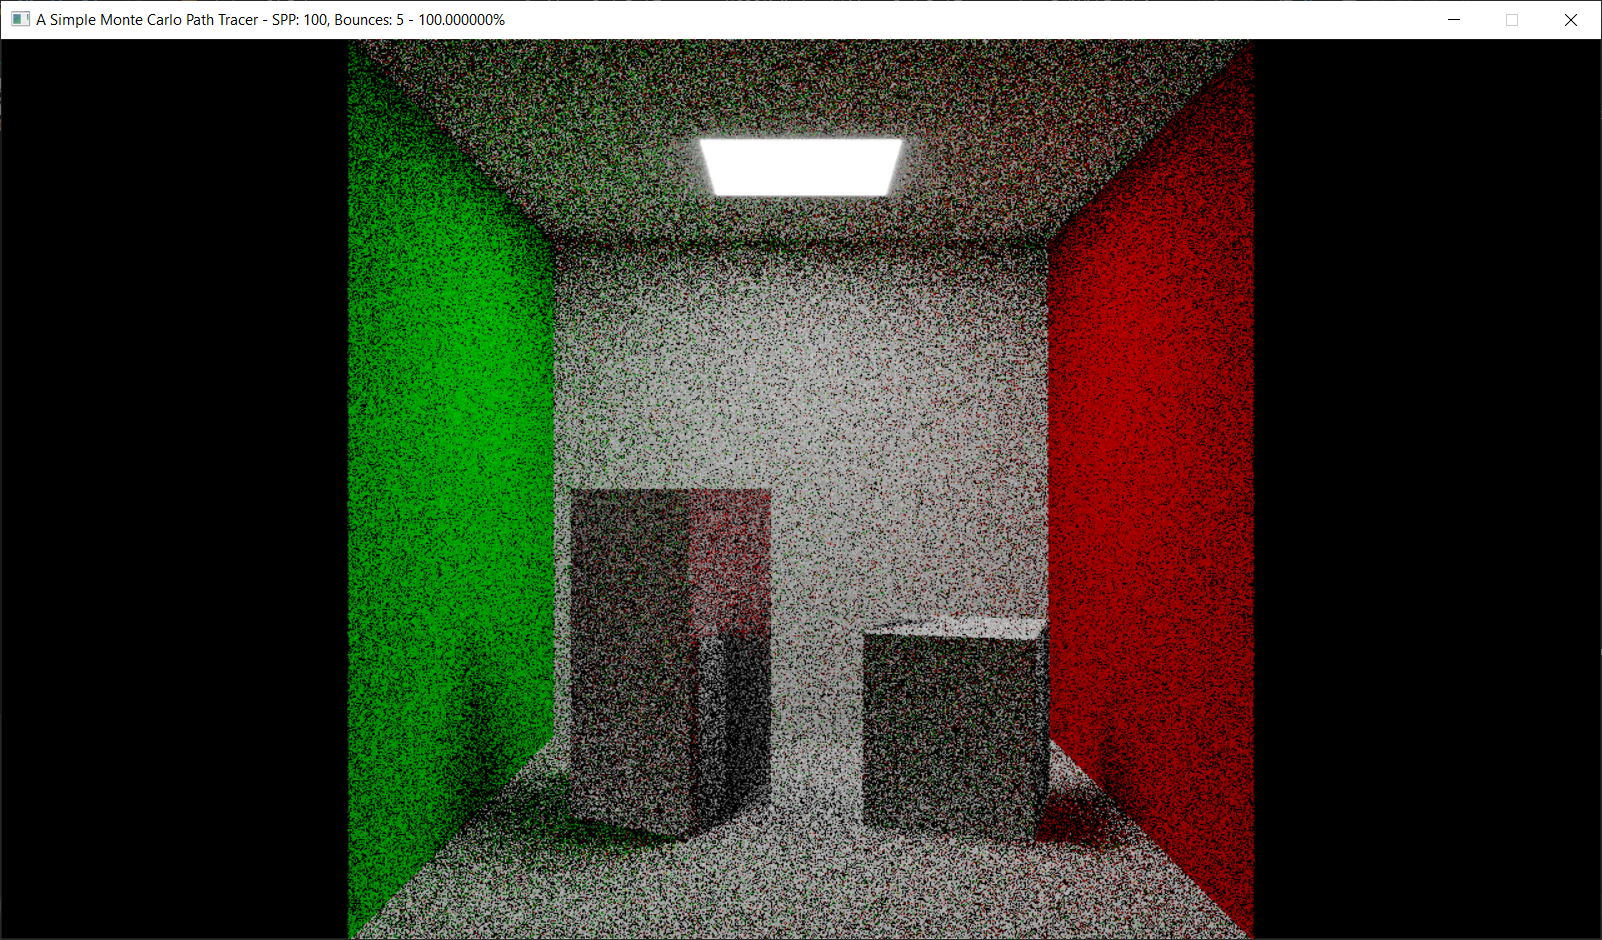
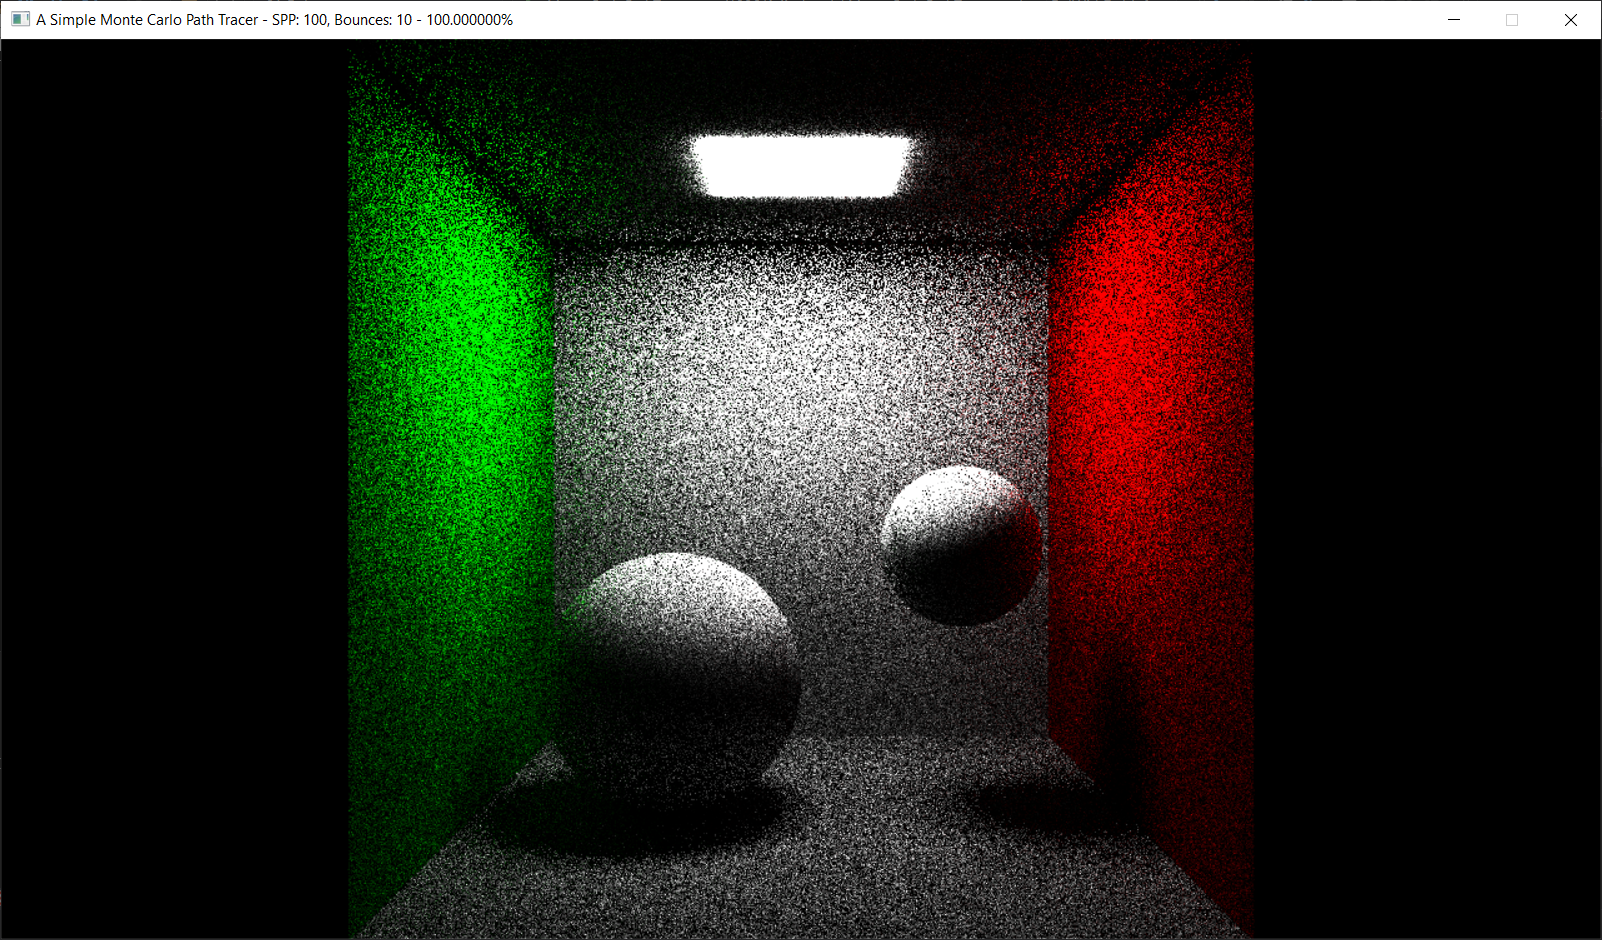
screen shot update

diff --git a/common/scene/CornellBox.cpp b/common/scene/CornellBox.cpp
@@ -37,25 +37,28 @@ void CornellBox::init() {
       .setEdges(glm::vec3(0, H, 0), glm::vec3(W, 0, 0))
       .setAnchor(glm::vec3(W / -2, 0, D / 2));
 
-  auto& tallBox = createObject<Box>("tall_box");
+  /*auto& tallBox = createObject<Box>("tall_box");
   tallBox.setExtents(W / 4.5f, H / 2, D / 4.5f)
       .setPosition(glm::vec3(-W / 5, 0, 0))
-      .setRotation(0, glm::radians(30.0f), 0);
-  tallBox.init();
+      .setRotation(0, glm::radians(-30.0f), 0);
+  tallBox.init();*/
 
   glm::vec3 boxPos = glm::vec3(W / 4, 0, 0);
   glm::vec3 boxSize = glm::vec3(W / 4, H / 3.5f, D / 4);
-  auto& shotBox = createObject<Box>("short_box");
+  /*auto& shotBox = createObject<Box>("short_box");
   shotBox.setExtents(boxSize.x, boxSize.y, boxSize.z)
       .setPosition(boxPos)
-      .setRotation(0, glm::radians(-18.0f), 0);
-  shotBox.init();
+      .setRotation(0, glm::radians(30.0f), 0);
+  shotBox.init();*/
 
 #if 1
-  float ball = W / 4.5f / 2.25f;
-  createObject<Sphere>("ball")
+  float ball = W / 8;
+  createObject<Sphere>("small_ball")
       .setCenter(boxPos + glm::vec3(0, ball + boxSize.y, 0))
       .setRadius(ball);
+  createObject<Sphere>("big_ball")
+      .setCenter(glm::vec3(-1,1,0))
+      .setRadius(1);
 #endif
 }
 

diff --git a/1986.Kajiya/code/MonteCarloPathTracer.cpp b/1986.Kajiya/code/MonteCarloPathTracer.cpp
@@ -118,8 +118,9 @@ glm::vec3 MonteCarloPathTracer::_shade(const Ray& wo,
   glm::vec3 wi = pMtl->scatter(shadingPoint.normal);
   float pdf = pMtl->pdf(wi, shadingPoint.normal);
   float cosine = std::max(0.0f, glm::dot(wi, shadingPoint.normal));
+  float fr = pMtl->evaluate(wo.direction, wi, shadingPoint.normal);
 
-  if (pdf == 0.0f) return bgColor;
+  if (pdf == 0.0f || fr <= 0.0f) return bgColor;
 
   Ray ray(shadingPoint.p, wi);
   HitRecord hitRec;
@@ -139,12 +140,9 @@ glm::vec3 MonteCarloPathTracer::_shade(const Ray& wo,
     glm::vec3 CC = pHitMtl->getEmission() * cosine * lightColor / pdf;
     color = falloff * CC * baseColor;
   } else {
-    float fr = pHitMtl->evaluate(wo.direction, wi, hitRec.normal);
-    if (fr > 0) {
-      glm::vec3 CC = _shade(Ray(hitRec.p, -wi), hitRec, pScene, depth + 1);
-      glm::vec3 Le = pHitMtl->getEmission() * baseColor;
-      color = Le + baseColor * CC * fr * cosine / pdf * falloff;
-    }
+    glm::vec3 CC = _shade(Ray(hitRec.p, -wi), hitRec, pScene, depth + 1);
+    glm::vec3 Le = pHitMtl->getEmission() * baseColor;
+    color = Le + baseColor * CC * fr * cosine / pdf * falloff;
   }
 
   return color;

diff --git a/1986.Kajiya/code/CornellBoxDemo.h b/1986.Kajiya/code/CornellBoxDemo.h
@@ -23,7 +23,7 @@ class CornellBoxDemo : public CornellBox {
     if (newObject->getName() == "light") {
       mLight = newObject;
       mLight->createMaterial<DiffuseMaterial>()
-          .setEmission(50.0f)
+          .setEmission(100.0f)
           .enableLight();
     } else if (newObject->getName() == "left_wall") {
       newObject->createMaterial<DiffuseMaterial>().setColor(glm::vec3(0, 1, 0));

diff --git a/1986.Kajiya/code/DiffuseMaterial.h b/1986.Kajiya/code/DiffuseMaterial.h
@@ -40,7 +40,7 @@ class DiffuseMaterial : public MaterialBase {
 
   virtual float evaluate(const glm::vec3& wo, const glm::vec3& wi,
                          const glm::vec3& normal) override {
-    float cosine = glm::dot(normal, wi);
+    float cosine = glm::dot(normal, wo);
     if (cosine > 0)
       return Kd / glm::pi<float>();
     else
